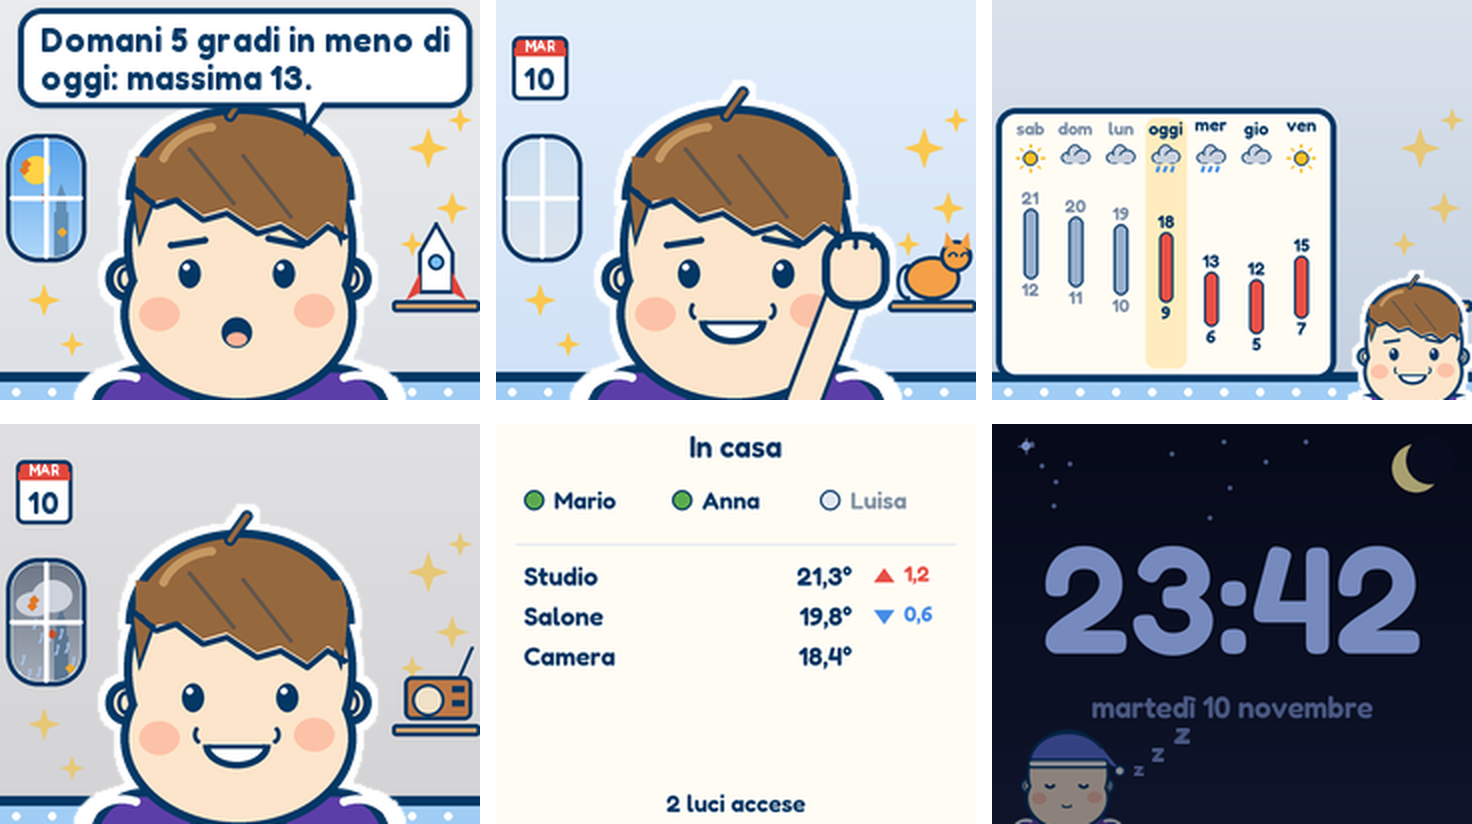
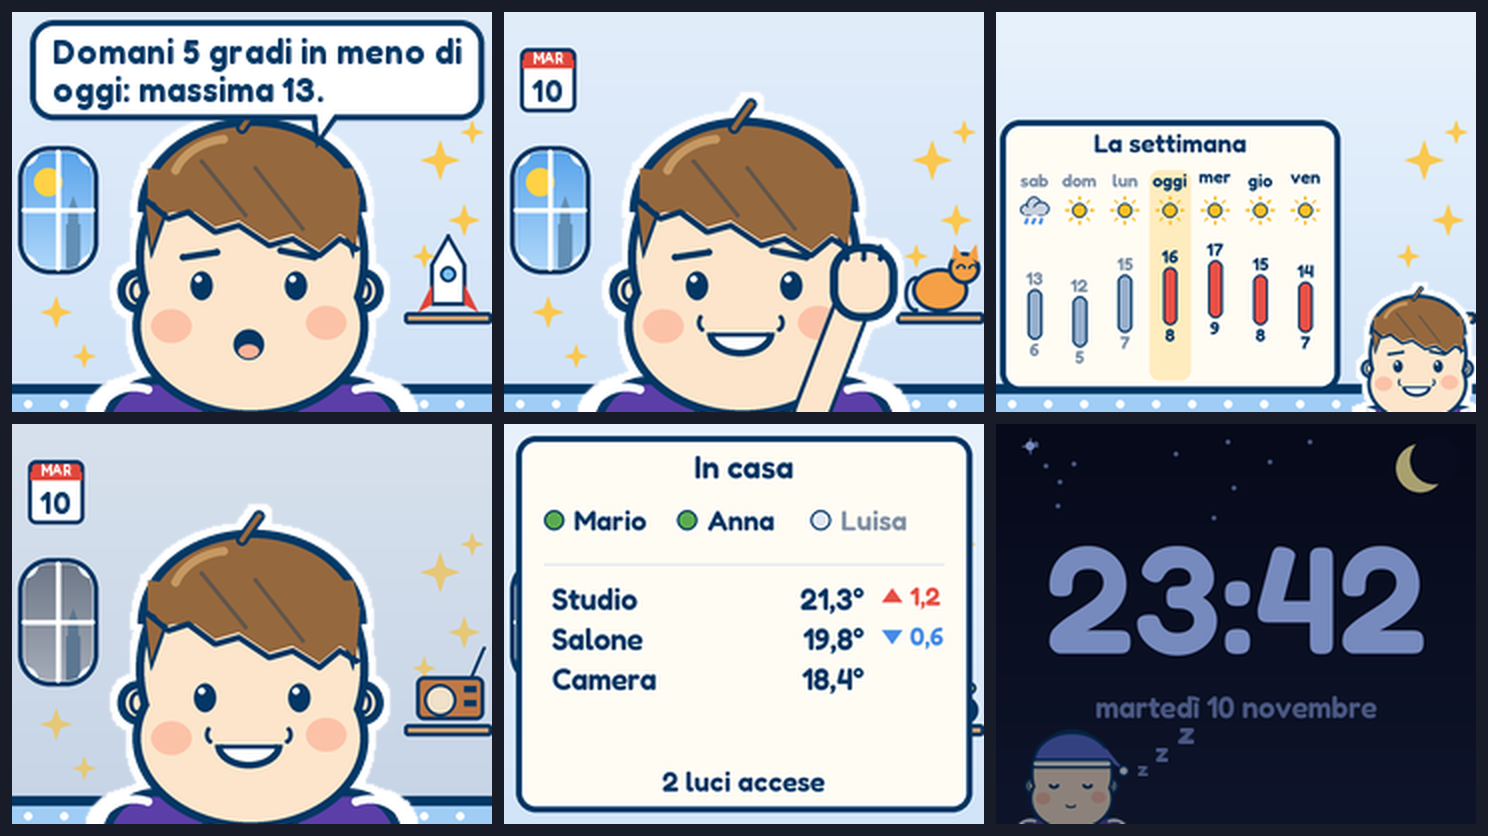
README: schermate, immagini nuove; grafici: album e etichette delle ore senza sovrapposizioni

diff --git a/apps/coinquilino/grafici.py b/apps/coinquilino/grafici.py
@@ -95,7 +95,11 @@ def temperature(ore, temp, pioggia, font):
                                 radius=2 * S, fill=(170, 205, 245))
     pts = [(X(i), Y(t)) for i, t in enumerate(temp)]
     d.line(pts, fill=RED, width=3 * S, joint="curve")
-    segnati = {0, n - 1, temp.index(max(temp)), temp.index(min(temp))}   # 3.5: il massimo una volta sola
+    # 3.5: il massimo una volta sola; prima minimo e massimo, poi gli estremi se non sono troppo vicini
+    segnati = []
+    for i in (temp.index(max(temp)), temp.index(min(temp)), 0, n - 1):
+        if all(abs(pts[i][0] - pts[j][0]) > 22 * S or abs(pts[i][1] - pts[j][1]) > 14 * S for j in segnati):
+            segnati.append(i)
     for i, (x, y) in enumerate(pts):
         if i in segnati:
             d.ellipse([x - 3 * S, y - 3 * S, x + 3 * S, y + 3 * S], fill=WHITE, outline=RED, width=S)
@@ -666,8 +670,10 @@ def schermata_musica(copertina, titolo, artista, album, posizione, durata, in_pa
     _etichetta(d, tx, y0 + 2, "in pausa" if in_pausa else "in riproduzione", font,
                GRIGIO if in_pausa else GREEN, px=11)
     y = y0 + 28
+    fondo = y0 + lato                                       # artista e album stanno accanto alla copertina
     for testo, px, col in ((artista, 15, INK), (album, 13, GRIGIO)):
-        for r in _righe(d, testo or "", font, px, larg, massimo=2):
+        quante = max(0, min(2, int((fondo - y) / (px + 4))))
+        for r in _righe(d, testo or "", font, px, larg, massimo=quante) if quante else []:
             d.text((tx * S, y * S), r, font=_font(font, px), fill=col)
             y += px + 4
     yt = y0 + lato + 8

diff --git a/README.md b/README.md
@@ -18,7 +18,7 @@ It is built as an **extension of Home Assistant**, not a closed gadget:
 
 - **Your automations decide, the character tells.** One event, `coinquilino_say`, makes it say
   anything from any automation or script, with simple rules for an empty house, the night, and
-  repetitions. Ready-made **blueprints** cover the usual cases: lights left on in an empty house,
+  repetitions, or put an urgent notice on the whole cube. Ready-made **blueprints** cover the usual cases: lights left on in an empty house,
   climate off while a window is open, the doorbell, low batteries, updates, someone coming home
   (Proximity), parcels (17TRACK), waste collection.
 - **It reads what you already have**: people and presence, weather, to-do lists (Local To-do,
@@ -46,28 +46,32 @@ The texts are in Italian.
   something else replaces them; when there is nothing new, today's showcase comes back in turn (the
   week's chart, the house screen, today's drawing, the diary, the director's best lines), so you
   see it even if you look at the cube hours later.
-- **Full-cube screens** (`screens`) — the week's weather, the house (who is home, room temperatures
-  and their change in the last hour, lights on) and, with `power_sensor` / `energy_sensor`, the
-  power now and today's energy against yesterday's. Two more appear only when they matter: the
-  **batteries** (rings, when one is below `battery_screen_below`, 30% by default) and the
-  **thermostat** (current and target temperature, heating or not, the other rooms) while it is on.
-  Also: a **clock** with the weather outside and the next appointment, the **house as icons** (lights,
-  climate, temperature, humidity, doors), **now playing** (cover, title, artist, progress) while a
-  `media_player` plays, **doors and windows** when one is open, and today's **activity** (e.g. steps,
-  `activity_entities`), and **Home Assistant** itself (CPU, memory, disk, from System
-  Monitor).
-  Screens sit in the same white frame as the photos.
+- **Full-cube screens** (`screens`) — a small dashboard that the character runs for you: it picks
+  what to show and when, and says one line about it. They sit in the same white frame as the photos,
+  with big type for a small screen.
+  - always in turn: the **week's weather**, the **house** (who is home, room temperatures and their
+    change in the last hour, lights on), a **clock** with the weather outside and the next
+    appointment, the **house as icons** (lights, climate, temperature, humidity, doors), **power**
+    (with `power_sensor` / `energy_sensor`), **Home Assistant** itself (CPU, memory, disk and load,
+    from the System Monitor integration) and today's **activity** (e.g. steps, `activity_entities`);
+  - only when they matter: **batteries** (one below `battery_screen_below`, 30% by default), the
+    **thermostat** while it is on, **now playing** (cover, title, artist, progress) while a
+    `media_player` plays, **doors and windows** when one is open;
+  - **urgent notices** from your automations: `coinquilino_say` with `urgent` puts the text on the
+    whole cube with a coloured band (washing machine done, doorbell, alarm).
 - **Weather that compares** (Open-Meteo, no key) — "domani 5 gradi in meno", "dopo giorni asciutti,
   pioggia giovedì"; the hourly chart only when rain or gusts are due; the morning greeting says
   today against yesterday.
 - **Agenda** — to-do items with a time and appointments coming up are said on the cube and sent to
-  the phone; *"ricordami di … alle 18"* in the chat lands in your to-do list, *"fatto …"* ticks it off.
+  the phone, with human dates (*"domani alle 18"*, *"sabato"*); *"ricordami di … alle 18"* in the chat
+  lands in your to-do list, *"fatto …"* ticks it off.
 - **Planes overhead** (public ADS-B, no key) — airline, type, altitude and route of the plane
   passing above the house, seen through the window and on a radar.
 - **News** from any RSS feeds, national and local, with categories to skip; sad news is never
   announced.
 - **Family photos** sent to the Telegram bot: at once on the cube, then in turn a few times a day;
-  they never leave your home (album in `/media/coinquilino`, manageable from the *Media* panel).
+  they never leave your home (album in `/media/coinquilino`, manageable from the *Media* panel). When
+  the album is almost empty it asks you for a few more.
 - **A room that changes** (`scenes`) — season, real fog and snow, the date, a different object on
   the shelf every day; costumes for Halloween, Christmas, Easter, birthdays and your patron saint.
 - **Night** — a dark night clock with the moon and Alessio asleep in a corner; quiet until morning,
@@ -89,8 +93,9 @@ The texts are in Italian.
   someone is home, and a sensor counts what the API costs this month.
 - **Voice** — through any `tts.speak` target, with a mute switch.
 
-![Holidays](docs/feste.png)
+![Full-cube screens](docs/schermate.png)
 ![Blackboard](docs/lavagnetta.png)
+![Holidays](docs/feste.png)
 ![Bandit](docs/bandit.png)
 
 ## How it works

diff --git a/README.it.md b/README.it.md
@@ -18,7 +18,7 @@ di Home Assistant.
 
 - **Le tue automazioni decidono, il personaggio racconta.** Un solo evento, `coinquilino_say`, gli
   fa dire qualunque cosa da qualunque automazione o script, con regole semplici per la casa vuota, la
-  notte e le ripetizioni. I **blueprint** pronti coprono i casi soliti: luci accese a casa vuota,
+  notte e le ripetizioni, o mettere un avviso urgente a tutto cubo. I **blueprint** pronti coprono i casi soliti: luci accese a casa vuota,
   clima spento con la finestra aperta, citofono, batterie scariche, aggiornamenti, qualcuno che sta
   tornando (Proximity), pacchi (17TRACK), raccolta dei rifiuti.
 - **Legge quello che hai già**: persone e presenza, meteo, liste di cose da fare (Local To-do,
@@ -47,28 +47,33 @@ pixel art.
   restano finché non arriva altro; quando non c'è niente di nuovo torna a giro la vetrina del giorno
   (il grafico della settimana, la schermata della casa, il disegno, il diario, le frasi migliori del
   regista), così la vedi anche se guardi il cubo ore dopo.
-- **Schermate a tutto cubo** (`screens`) — il meteo della settimana, la casa (chi c'è, le
-  temperature delle stanze e quanto sono cambiate nell'ultima ora, le luci accese) e, con
-  `power_sensor` / `energy_sensor`, la potenza di adesso e l'energia di oggi contro ieri. Altre due
-  compaiono solo quando servono: le **batterie** (anelli, quando una è sotto `battery_screen_below`,
-  30% di norma) e il **termostato** (temperatura di adesso e voluta, se scalda, le altre stanze)
-  finché è acceso. In più: l'**orologio** con il meteo fuori e il prossimo appuntamento, la **casa a
-  icone** (luci, clima, temperatura, umidità, porte), **in riproduzione** (copertina, titolo, artista,
-  avanzamento) mentre un `media_player` suona, **porte e finestre** quando una è aperta e l'**attività**
-  di oggi (per esempio i passi, `activity_entities`), e **Home Assistant** stesso (CPU,
-  memoria, disco, da System Monitor). Le schermate stanno nella stessa cornice bianca
-  delle foto.
+- **Schermate a tutto cubo** (`screens`) — una piccola plancia che il personaggio gestisce per te:
+  sceglie cosa mostrare e quando, e ci dice una frase sopra. Stanno nella stessa cornice bianca delle
+  foto, con caratteri grandi per uno schermo piccolo.
+  - sempre, a turno: il **meteo della settimana**, la **casa** (chi c'è, le temperature delle stanze
+    e quanto sono cambiate nell'ultima ora, le luci accese), l'**orologio** con il meteo fuori e il
+    prossimo appuntamento, la **casa a icone** (luci, clima, temperatura, umidità, porte), la
+    **corrente** (con `power_sensor` / `energy_sensor`), **Home Assistant** stesso (CPU, memoria,
+    disco e carico, dall'integrazione System Monitor) e l'**attività** di oggi (per esempio i passi,
+    `activity_entities`);
+  - solo quando servono: le **batterie** (una sotto `battery_screen_below`, 30% di norma), il
+    **termostato** finché è acceso, **in riproduzione** (copertina, titolo, artista, avanzamento)
+    mentre un `media_player` suona, **porte e finestre** quando una è aperta;
+  - gli **avvisi urgenti** delle tue automazioni: `coinquilino_say` con `urgent` mette il testo a
+    tutto cubo con una fascia colorata (lavatrice finita, citofono, allarme).
 - **Il meteo a confronto** (Open-Meteo, senza chiave) — "domani 5 gradi in meno", "dopo giorni
   asciutti, pioggia giovedì"; il grafico orario solo quando arrivano pioggia o raffiche; il saluto
   del mattino confronta oggi con ieri.
-- **Agenda** — le voci con l'ora e gli appuntamenti vicini li dice sul cubo e li manda sul telefono;
-  *"ricordami di … alle 18"* in chat finisce nella tua lista, *"fatto …"* la spunta.
+- **Agenda** — le voci con l'ora e gli appuntamenti vicini li dice sul cubo e li manda sul telefono,
+  con date "umane" (*"domani alle 18"*, *"sabato"*); *"ricordami di … alle 18"* in chat finisce nella
+  tua lista, *"fatto …"* la spunta.
 - **Aerei sopra casa** (ADS-B pubblico, senza chiave) — compagnia, modello, quota e rotta
   dell'aereo che passa sopra casa, alla finestra e su un radar.
 - **Notizie** da qualunque feed RSS, nazionali e locali, con le categorie da saltare; le notizie
   tristi non le annuncia mai.
 - **Le foto di famiglia** mandate al bot di Telegram: subito sul cubo, poi a giro qualche volta al
   giorno; non escono mai di casa (album in `/media/coinquilino`, gestibile dal pannello *Media*).
+  Quando l'album è quasi vuoto te ne chiede qualcuna.
 - **Una cameretta che cambia** (`scenes`) — la stagione, nebbia e neve vere, la data, un oggetto
   diverso sulla mensola ogni giorno; costumi per Halloween, Natale, Pasqua, i compleanni e il santo
   patrono.
@@ -93,8 +98,9 @@ pixel art.
   mese.
 - **La voce** — con qualunque `tts.speak`, con un interruttore per zittirlo.
 
-![Feste](docs/feste.png)
+![Schermate a tutto cubo](docs/schermate.png)
 ![Lavagnetta](docs/lavagnetta.png)
+![Feste](docs/feste.png)
 ![Bandit](docs/bandit.png)
 
 ## Come funziona
